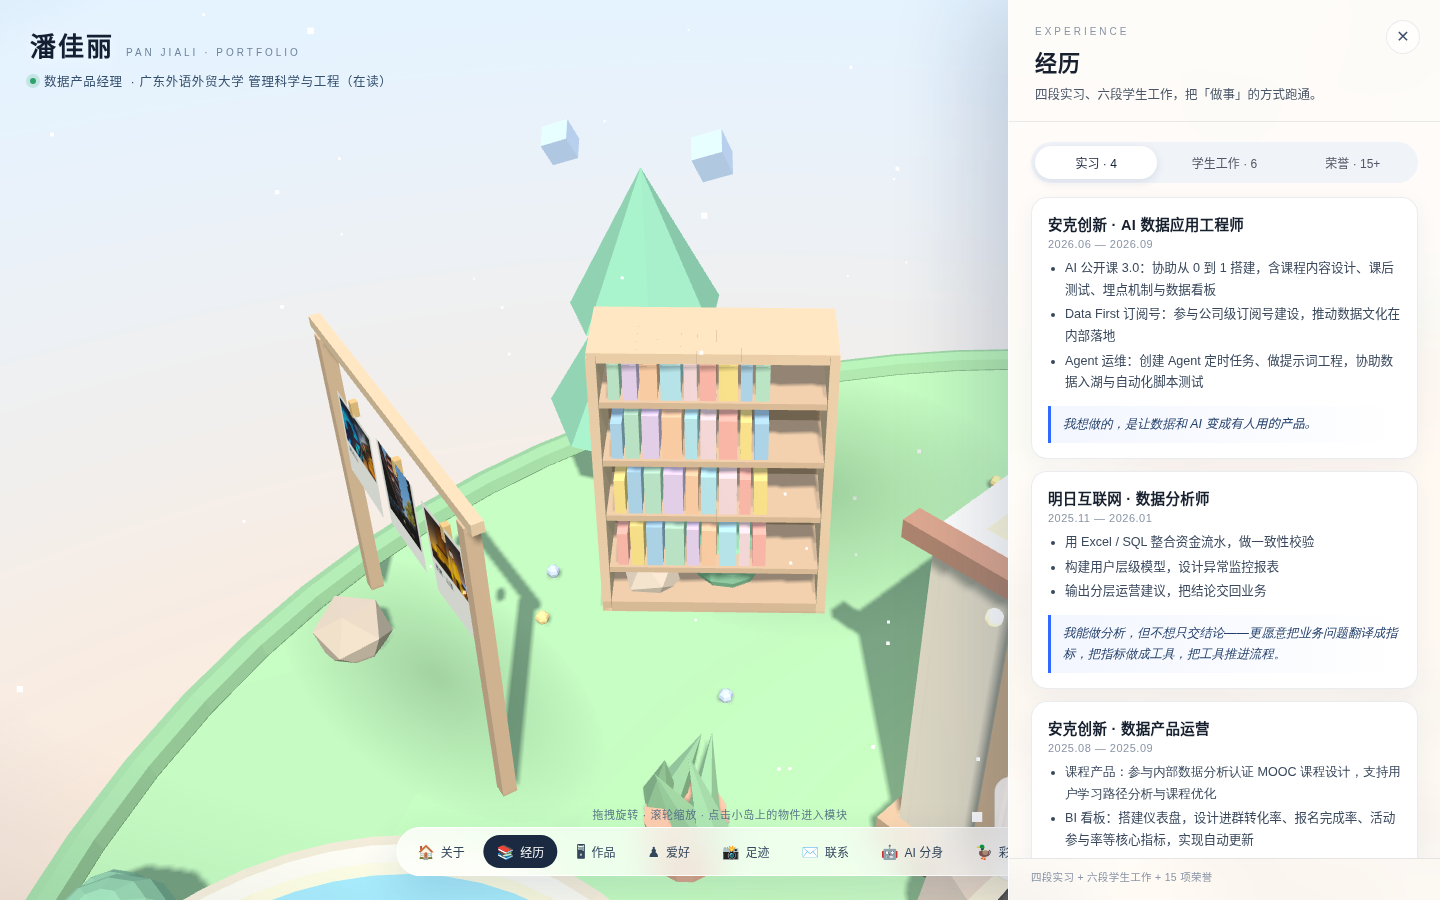
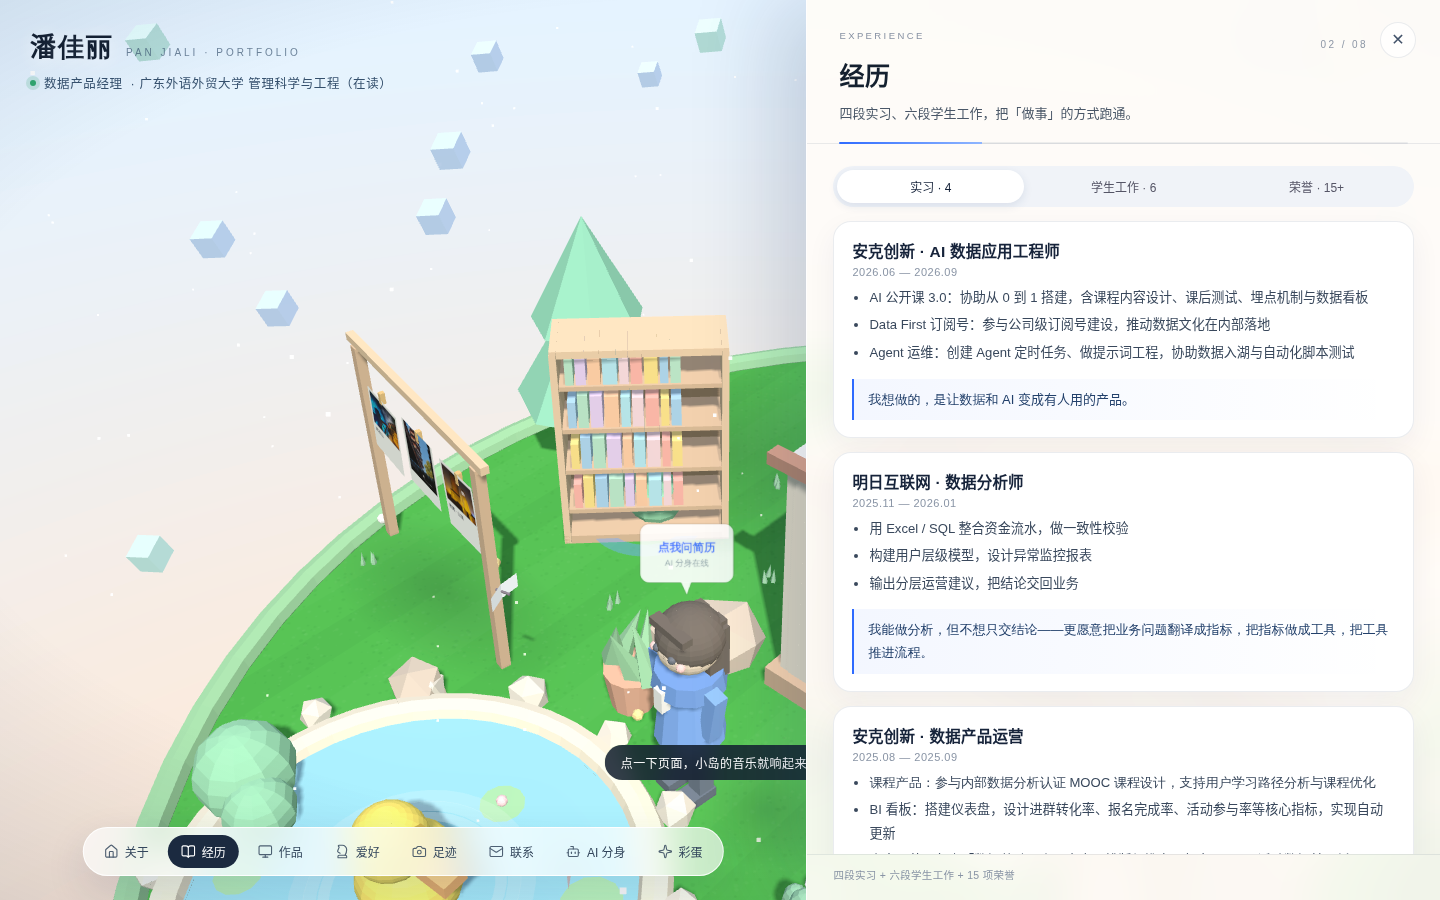
v2.2: 面板加宽 + 底栏线性图标 + 衬线标题/字号行距精修 + 键盘焦点与减少动效支持

diff --git a/index.html b/index.html
@@ -19,6 +19,7 @@
   --line:rgba(20,40,80,.09);
   --shadow:0 12px 40px rgba(23,45,90,.12);
   --radius:22px;
+  --serif:"Songti SC","Source Han Serif SC","Noto Serif SC",Georgia,"Times New Roman",serif;
 }
 *{box-sizing:border-box;-webkit-tap-highlight-color:transparent}
 html,body{height:100%;margin:0}
@@ -31,6 +32,8 @@ canvas#scene{position:fixed;inset:0;display:block;width:100%;height:100%;touch-a
 canvas#scene.dragging{cursor:grabbing}
 #vignette{position:fixed;inset:0;pointer-events:none;z-index:6;background:radial-gradient(125% 105% at 50% 42%,rgba(255,255,255,0) 52%,rgba(24,46,84,.18) 88%,rgba(18,34,64,.3) 100%);mix-blend-mode:multiply}
 canvas#scene.pointing{cursor:pointer}
+:focus-visible{outline:2px solid rgba(47,107,255,.62);outline-offset:2px;border-radius:8px}
+::selection{background:rgba(47,107,255,.16)}
 
 /* ---------- v2：光标 / 氛围 / 章节 ---------- */
 #cursor{
@@ -51,10 +54,10 @@ canvas#scene.pointing{cursor:pointer}
 .hud-meta b{font-weight:600;color:#233c58;letter-spacing:1.4px}
 @media (max-width:640px){.hud-meta{display:none}}
 
-.idxline{display:flex;align-items:flex-end;justify-content:space-between;gap:10px;margin-bottom:8px;padding-right:34px}
+.idxline{display:flex;align-items:flex-end;justify-content:space-between;gap:10px;margin-bottom:10px;padding-right:40px}
 .idxline .eyebrow{margin:0}
 .idxline .idx{font-size:10px;letter-spacing:2.4px;color:#8d97a6;font-variant-numeric:tabular-nums}
-.panel-head .bar{position:absolute;left:26px;right:26px;bottom:-1px;height:2px;border-radius:2px;
+.panel-head .bar{position:absolute;left:32px;right:32px;bottom:-1px;height:2px;border-radius:2px;
   background:rgba(20,40,80,.07);overflow:hidden}
 .panel-head .bar i{display:block;height:100%;width:0;background:linear-gradient(90deg,#2f6bff,#8fb6ff);
   transition:width .7s cubic-bezier(.2,.8,.2,1) .08s}
@@ -118,11 +121,25 @@ body.panel-open #vignette{background:radial-gradient(120% 100% at 50% 46%,rgba(2
   padding:8px 13px;border-radius:999px;cursor:pointer;display:flex;align-items:center;gap:6px;
   white-space:nowrap;transition:background .18s, color .18s, transform .18s;
 }
-.dock button .ico{font-size:14px;line-height:1}
+.dock button .ico{display:inline-flex;width:15px;height:15px;opacity:.85}
+.dock button .ico svg{width:15px;height:15px}
+.dock button.active .ico{opacity:1}
 .dock button:hover{background:rgba(47,107,255,.1);color:#1e4ed8}
 .dock button.active{background:#1b2a40;color:#fff}
 .hint{left:50%;bottom:78px;transform:translateX(-50%);font-size:11px;color:#496581;letter-spacing:.6px;opacity:.85;white-space:nowrap}
 @media (max-width:640px){.hint{display:none}}
+@media (min-width:761px){
+  .dock{transition:transform .5s cubic-bezier(.22,.9,.25,1)}
+  body.panel-open .dock{transform:translateX(calc(-50% - clamp(215px,22vw,330px)))}
+  body.panel-open .hint{opacity:0}
+  body.panel-open .hud-meta{opacity:0}
+}
+
+@media (prefers-reduced-motion: reduce){
+  #cursor{display:none}
+  .panel{transition-duration:.02s}
+  #brandName span{animation:none;opacity:1;transform:none}
+}
 
 /* ---------- labels ---------- */
 #labels{position:fixed;inset:0;pointer-events:none;z-index:6;overflow:hidden;transition:opacity .3s}
@@ -139,7 +156,7 @@ body.riding #labels{opacity:0}
 
 /* ---------- panel ---------- */
 .panel{
-  position:fixed;top:0;right:0;height:100%;width:min(432px,100vw);z-index:20;
+  position:fixed;top:0;right:0;height:100%;width:clamp(430px,44vw,660px);z-index:20;
   display:flex;flex-direction:column;
   background:rgba(255,252,247,.93);
   backdrop-filter:blur(22px);-webkit-backdrop-filter:blur(22px);
@@ -148,33 +165,33 @@ body.riding #labels{opacity:0}
   transform:translateX(104%);transition:transform .55s cubic-bezier(.22,.9,.25,1);
 }
 .panel.open{transform:none}
-.panel-head{padding:26px 26px 16px;border-bottom:1px solid var(--line);position:relative;flex:0 0 auto}
-.panel-head .eyebrow{font-size:10px;letter-spacing:3px;color:var(--ink-3);text-transform:uppercase;margin-bottom:8px}
-.panel-head h2{margin:0;font-size:22px;letter-spacing:1px}
-.panel-head p{margin:8px 0 0;font-size:12.5px;color:var(--ink-2);line-height:1.6}
+.panel-head{padding:30px 32px 18px;border-bottom:1px solid var(--line);position:relative;flex:0 0 auto}
+.panel-head .eyebrow{font-size:9.5px;letter-spacing:2.4px;color:#8792a3;text-transform:uppercase;margin-bottom:9px}
+.panel-head h2{margin:0;font-size:25px;line-height:1.34;letter-spacing:.6px;font-family:var(--serif);font-weight:600;color:#14202f}
+.panel-head p{margin:9px 0 0;font-size:13px;color:var(--ink-2);line-height:1.72;max-width:34em}
 .close{
-  position:absolute;top:20px;right:20px;width:34px;height:34px;border-radius:50%;border:1px solid var(--line);
+  position:absolute;top:22px;right:24px;width:36px;height:36px;border-radius:50%;border:1px solid var(--line);
   background:rgba(255,255,255,.7);cursor:pointer;font-size:16px;color:#43536a;line-height:1;
   transition:transform .2s, background .2s;
 }
 .close:hover{background:#fff;transform:rotate(90deg)}
-.panel-body{padding:20px 22px 30px;overflow-y:auto;overscroll-behavior:contain;flex:1 1 auto;scrollbar-width:thin}
+.panel-body{padding:22px 26px 34px;overflow-y:auto;overscroll-behavior:contain;flex:1 1 auto;scrollbar-width:thin}
 .panel-body::-webkit-scrollbar{width:6px}
 .panel-body::-webkit-scrollbar-thumb{background:rgba(60,90,140,.2);border-radius:3px}
-.foot-note{padding:10px 22px 16px;border-top:1px solid var(--line);font-size:10.5px;color:var(--ink-3);letter-spacing:.3px;flex:0 0 auto}
+.foot-note{padding:12px 26px 18px;border-top:1px solid var(--line);font-size:10.5px;color:var(--ink-3);letter-spacing:.3px;flex:0 0 auto}
 
 /* ---------- shared bits ---------- */
-.card{background:#fff;border:1px solid var(--line);border-radius:16px;padding:15px 16px;margin-bottom:12px;box-shadow:0 8px 24px rgba(30,60,120,.05)}
-.card h3{margin:0 0 4px;font-size:14.5px;letter-spacing:.3px}
+.card{background:#fff;border:1px solid var(--line);border-radius:18px;padding:17px 18px;margin-bottom:14px;box-shadow:0 10px 30px rgba(24,45,90,.055)}
+.card h3{margin:0 0 5px;font-size:15.5px;letter-spacing:.2px;color:#16233a}
 .card .meta{font-size:11px;color:var(--ink-3);letter-spacing:.5px}
-.card p{margin:9px 0 0;font-size:12.8px;line-height:1.72;color:#39485c}
+.card p{margin:10px 0 0;font-size:13.3px;line-height:1.8;color:#39485c}
 .card ul{margin:8px 0 0;padding-left:17px}
-.card li{font-size:12.6px;line-height:1.72;color:#39485c;margin-bottom:3px}
-.quote{border-left:3px solid #2f6bff;padding:8px 0 8px 12px;margin-top:12px;font-size:12.4px;color:#24406b;font-style:italic;line-height:1.7;background:linear-gradient(90deg,rgba(47,107,255,.06),transparent)}
+.card li{font-size:13.1px;line-height:1.8;color:#39485c;margin-bottom:4px}
+.quote{border-left:2px solid #2f6bff;padding:9px 0 9px 14px;margin-top:14px;font-size:13px;color:#22406b;line-height:1.78;background:linear-gradient(90deg,rgba(47,107,255,.055),transparent)}
 .chips{display:flex;flex-wrap:wrap;gap:6px;margin-top:11px}
 .chip{font-size:11px;padding:4px 9px;border-radius:999px;background:#f1f4fa;color:#42536a;letter-spacing:.3px}
 .chip.blue{background:var(--accent-soft);color:#1e4ed8}
-.sec-title{font-size:11px;letter-spacing:2.4px;color:var(--ink-3);margin:22px 0 10px;text-transform:uppercase}
+.sec-title{font-size:10.5px;letter-spacing:2px;color:#8b95a4;margin:24px 0 11px;text-transform:uppercase}
 .sec-title:first-child{margin-top:4px}
 .tabs{display:flex;gap:6px;padding:4px;background:#f0f3f8;border-radius:999px;margin-bottom:14px}
 .tabs button{flex:1;border:0;background:transparent;padding:8px 4px;font-size:12px;border-radius:999px;cursor:pointer;color:#556;font-family:inherit;transition:.2s}
@@ -184,14 +201,14 @@ body.riding #labels{opacity:0}
 /* ---- about ---- */
 .about-hero{display:flex;gap:14px;align-items:flex-start;margin-bottom:6px}
 .portrait{width:112px;height:150px;object-fit:cover;object-position:50% 22%;border-radius:14px;box-shadow:0 10px 26px rgba(30,60,120,.16);flex:0 0 auto}
-.about-hero .who{font-size:12.8px;line-height:1.75;color:#3b4a5e}
+.about-hero .who{font-size:13.3px;line-height:1.8;color:#3b4a5e}
 .about-hero .who b{font-size:15px;letter-spacing:.5px;color:#17202e;display:block;margin-bottom:6px}
 .badge{display:inline-flex;align-items:center;gap:5px;font-size:10.5px;border-radius:999px;padding:3px 8px;background:#eff3fb;color:#3b5470;margin:0 4px 4px 0}
 .badge.red{background:#fdeceb;color:#c04a3d}
 .stat-grid{display:grid;grid-template-columns:1fr 1fr;gap:8px;margin-top:12px}
 .stat{background:#fff;border:1px solid var(--line);border-radius:13px;padding:10px 12px}
-.stat b{display:block;font-size:19px;letter-spacing:.5px;color:#1b2a40}
-.stat span{font-size:10.5px;color:var(--ink-3);letter-spacing:.4px}
+.stat b{display:block;font-size:21px;letter-spacing:.3px;color:#1b2a40;font-variant-numeric:tabular-nums}
+.stat span{font-size:10.8px;color:#758093;letter-spacing:.3px}
 
 /* ---- works ---- */
 .work{position:relative;overflow:hidden}
@@ -206,8 +223,8 @@ body.riding #labels{opacity:0}
 .piano-ui button:active,.piano-ui button.hit{transform:translateY(4px);background:#dbe6ff;color:#1e4ed8}
 .hobby-grid{display:grid;grid-template-columns:1fr 1fr;gap:8px;margin-top:10px}
 .hobby{background:#fff;border:1px solid var(--line);border-radius:13px;padding:11px 13px}
-.hobby b{font-size:13px;display:block;margin-bottom:3px}
-.hobby span{font-size:11px;color:var(--ink-3);line-height:1.55}
+.hobby b{font-size:13.5px;display:block;margin-bottom:4px}
+.hobby span{font-size:11.6px;color:#6d788a;line-height:1.62}
 
 
 /* ---- 图片 / 画廊 ---- */
@@ -327,6 +344,7 @@ body.riding #labels{opacity:0}
   .hud-top{top:16px;left:16px}
   .brand h1{font-size:20px}
   .brand-sub .edu{display:none}
+  .brand .en{display:none}
   .hud-right{top:16px;right:14px}
   .hud-right .pill{font-size:10.5px;padding:6px 10px}
   .panel{top:auto;bottom:0;height:min(82vh,760px);width:100%;border-left:0;border-top:1px solid rgba(255,255,255,.9);border-radius:22px 22px 0 0;transform:translateY(105%)}
@@ -363,20 +381,20 @@ body.riding #labels{opacity:0}
 
 <div class="hud hud-meta">
   <span>LOCAL <b id="metaClock">--:--</b></span>
-  <span>V2.0 · 单文件 3D 作品集</span>
+  <span>V2.2 · 单文件 3D 作品集</span>
 </div>
 
 <div class="hud hint">拖拽旋转 · 滚轮缩放 · 点击小岛上的物件进入模块</div>
 
 <div class="hud dock" id="dock">
-  <button data-go="about"><span class="ico">🏠</span>关于</button>
-  <button data-go="experience"><span class="ico">📚</span>经历</button>
-  <button data-go="works"><span class="ico">🖥</span>作品</button>
-  <button data-go="hobbies"><span class="ico">♟</span>爱好</button>
-  <button data-go="footprints"><span class="ico">📸</span>足迹</button>
-  <button data-go="contact"><span class="ico">✉</span>联系</button>
-  <button data-go="ai"><span class="ico">🤖</span>AI 分身</button>
-  <button data-go="duck"><span class="ico">🦆</span>彩蛋</button>
+  <button data-go="about"><span class="ico"><svg viewBox="0 0 24 24" fill="none" stroke="currentColor" stroke-width="1.8" stroke-linecap="round" stroke-linejoin="round"><path d="M15 21v-8a1 1 0 0 0-1-1h-4a1 1 0 0 0-1 1v8"/><path d="M3 10a2 2 0 0 1 .709-1.528l7-6a2 2 0 0 1 2.582 0l7 6A2 2 0 0 1 21 10v9a2 2 0 0 1-2 2H5a2 2 0 0 1-2-2z"/></svg></span>关于</button>
+  <button data-go="experience"><span class="ico"><svg viewBox="0 0 24 24" fill="none" stroke="currentColor" stroke-width="1.8" stroke-linecap="round" stroke-linejoin="round"><path d="M12 5v16"/><path d="M20.001 19A2 2 0 0 0 22 17V5a2 2 0 0 0-1.999-2L16 3.002A5 5 0 0 0 12 5a5 5 0 0 0-4-2H4a2 2 0 0 0-2 2v12a2 2 0 0 0 1.999 2H8a5 5 0 0 1 4 2 5 5 0 0 1 4-2z"/></svg></span>经历</button>
+  <button data-go="works"><span class="ico"><svg viewBox="0 0 24 24" fill="none" stroke="currentColor" stroke-width="1.8" stroke-linecap="round" stroke-linejoin="round"><rect width="20" height="14" x="2" y="3" rx="2"/><line x1="8" x2="16" y1="21" y2="21"/><line x1="12" x2="12" y1="17" y2="21"/></svg></span>作品</button>
+  <button data-go="hobbies"><span class="ico"><svg viewBox="0 0 24 24" fill="none" stroke="currentColor" stroke-width="1.8" stroke-linecap="round" stroke-linejoin="round"><path d="M5 20a2 2 0 0 1 2-2h10a2 2 0 0 1 2 2v1a1 1 0 0 1-1 1H6a1 1 0 0 1-1-1z"/><path d="M16.5 18c1-2 2.5-5 2.5-9a7 7 0 0 0-7-7H6.635a1 1 0 0 0-.768 1.64L7 5l-2.32 5.802a2 2 0 0 0 .95 2.526l2.87 1.456"/></svg></span>爱好</button>
+  <button data-go="footprints"><span class="ico"><svg viewBox="0 0 24 24" fill="none" stroke="currentColor" stroke-width="1.8" stroke-linecap="round" stroke-linejoin="round"><path d="M13.997 4a2 2 0 0 1 1.76 1.05l.486.9A2 2 0 0 0 18.003 7H20a2 2 0 0 1 2 2v9a2 2 0 0 1-2 2H4a2 2 0 0 1-2-2V9a2 2 0 0 1 2-2h1.997a2 2 0 0 0 1.759-1.048l.489-.904A2 2 0 0 1 10.004 4z"/><circle cx="12" cy="13" r="3"/></svg></span>足迹</button>
+  <button data-go="contact"><span class="ico"><svg viewBox="0 0 24 24" fill="none" stroke="currentColor" stroke-width="1.8" stroke-linecap="round" stroke-linejoin="round"><rect x="2" y="4" width="20" height="16" rx="2"/><path d="m22 7-8.991 5.727a2 2 0 0 1-2.009 0L2 7"/></svg></span>联系</button>
+  <button data-go="ai"><span class="ico"><svg viewBox="0 0 24 24" fill="none" stroke="currentColor" stroke-width="1.8" stroke-linecap="round" stroke-linejoin="round"><path d="M12 8V4H8"/><rect width="16" height="12" x="4" y="8" rx="2"/><path d="M2 14h2"/><path d="M20 14h2"/><path d="M15 13v2"/><path d="M9 13v2"/></svg></span>AI 分身</button>
+  <button data-go="duck"><span class="ico"><svg viewBox="0 0 24 24" fill="none" stroke="currentColor" stroke-width="1.8" stroke-linecap="round" stroke-linejoin="round"><path d="M11.017 2.814a1 1 0 0 1 1.966 0l1.051 5.558a2 2 0 0 0 1.594 1.594l5.558 1.051a1 1 0 0 1 0 1.966l-5.558 1.051a2 2 0 0 0-1.594 1.594l-1.051 5.558a1 1 0 0 1-1.966 0l-1.051-5.558a2 2 0 0 0-1.594-1.594l-5.558-1.051a1 1 0 0 1 0-1.966l5.558-1.051a2 2 0 0 0 1.594-1.594z"/></svg></span>彩蛋</button>
 </div>
 
 <aside class="panel" id="panel">
@@ -1836,7 +1854,7 @@ const RENDER = {
         <h3>往信箱里投一张纸条</h3>
         <p style="margin-top:4px">想说什么都可以写在这儿。这个站是纯静态的，没有服务器：点「投进信箱」会用你电脑上的邮件客户端把信发到她的邮箱（也可以先复制，自己微信发）。</p>
         <input id="mailFrom" maxlength="20" placeholder="怎么称呼你（可留空）" />
-        <textarea id="mailBodyInput" maxlength="500" placeholder="想对潘佳丽说的话…"></textarea>
+        <textarea id="mailBodyInput" rows="4" maxlength="500" placeholder="想对潘佳丽说的话…"></textarea>
         <div class="mail-bar">
           <button class="primary" id="mailSend">✉ 投进信箱</button>
           <button class="ghost" id="mailCopy">复制内容</button>
@@ -2436,9 +2454,11 @@ const PORTRAIT = applyViewport(true);
 /* 首屏：2.6 秒的镜头入场，从高处绕到正面 */
 want.r = PORTRAIT ? 27 : 20.5; want.theta = 0.55; want.phi = PORTRAIT ? 1.0 : 0.96;
 view.r = PORTRAIT ? 46 : 38; view.theta = -0.72; view.phi = PORTRAIT ? 0.74 : 0.68;
-const INTRO = { start: 0, dur: 2.6, on: true,
+const REDUCE = window.matchMedia('(prefers-reduced-motion: reduce)').matches;
+const INTRO = { start: 0, dur: 2.6, on: !REDUCE,
   s: { theta: view.theta, phi: view.phi, r: view.r },
   d: { theta: want.theta, phi: want.phi, r: want.r } };
+if (REDUCE) { view.theta = want.theta; view.phi = want.phi; view.r = want.r; }
 const bn = document.getElementById('brandName');
 if (bn) {
   const chars = [...bn.textContent];

diff --git a/README.md b/README.md
@@ -51,7 +51,15 @@ python3 -m http.server 8000
 - **骑鸭彩蛋**：现在不是绕圈了——坐上大黄鸭，它会带着你绕岛飞一整圈，经过哪个模块 HUD 就报一站（书架·经历、照片墙·足迹…），`ESC` 下岛。
 - **象棋**：红先黑后，两边都能走，不是只有红方能动。
 - **信箱留言**：联系方式面板里能写一张纸条投进邮筒。站是纯静态的，没有后端——点「投进信箱」会调用你电脑的邮件客户端把信发到 2292100161@qq.com，不想开邮件就用「复制内容」自己发。投过的草稿存在你自己的浏览器里（localStorage），不会上传。
-- **陈设**：草皮加了纹理和割草纹、草丛、睡莲、池边石、门口绿植、屋顶烟囱、侧墙小窗、踏步石、水边长凳、三只蝴蝶。
+- **陈设**：草皮加了纹理和割草纹、草丛、睡莲、池边石、门口绿植、屋顶烟囱、侧墙小窗、踏步石、水边长椅、三只蝴蝶。
+
+## 3.5 视觉精修（v2.2）
+
+- **面板更宽**：桌面端 `clamp(430px, 44vw, 660px)`，1440 屏约 633px；正文 13.3px / 行高 1.8，一行约 40 个汉字，读起来不挤也不散。
+- **标题换衬线**：面板标题用宋体衬线（Songti SC / Source Han Serif，系统自带，不额外加载字体），正文仍是黑体；章节小标压到 10.5px、字距 2px。
+- **底栏图标**：emoji 换成 15px 线性 SVG（房子 / 书 / 显示器 / 马 / 相机 / 信封 / 机器人 / 星芒），选中态白字深底，跨设备显示一致。
+- **排版细节**：卡片 18px 圆角、内边距 17/18、统计数字用等宽数字；分隔细线、阴影更轻。
+- **可用性**：键盘 Tab 有可见焦点框；系统开启「减少动效」时自动跳过入场飞行、隐藏跟随光标、名字直接显示；面板打开时底栏与左下角信息自动让位，不会被遮住。
 
 ## 4. 版本回滚
 
@@ -64,9 +72,10 @@ git checkout main                 # 回到最新
 ```
 
 当前存档点：
+- `v2.1-island-upgrade` —— 背景音乐自动播 + 歌单外链 + 骑鸭巡游 + 双向象棋 + 信箱留言 + 陈设细节
+- `v2.2-design` —— 最新：右侧面板加宽（430–660px 自适应）+ 底栏换线性图标 + 衬线标题 / 字号行距 / 卡片圆角精修 + 键盘焦点与减少动效支持
 - `v1-stable-20261126` —— 象棋 32 子开局、音乐、摆位全部修好的版本（不含 v2 交互）
 - `ac7321f` —— v2：入场镜头、自定义光标、视差、惯性、涟漪、章节号
-- 最新 —— v2.1：背景音乐自动播 + 歌单外链 + 骑鸭巡游 + 双向象棋 + 信箱留言 + 陈设细节
 - `fd91414` —— 摆位修复
 - `43e6573` —— 真实联系方式 + 生活照 + 音乐爱好
 
